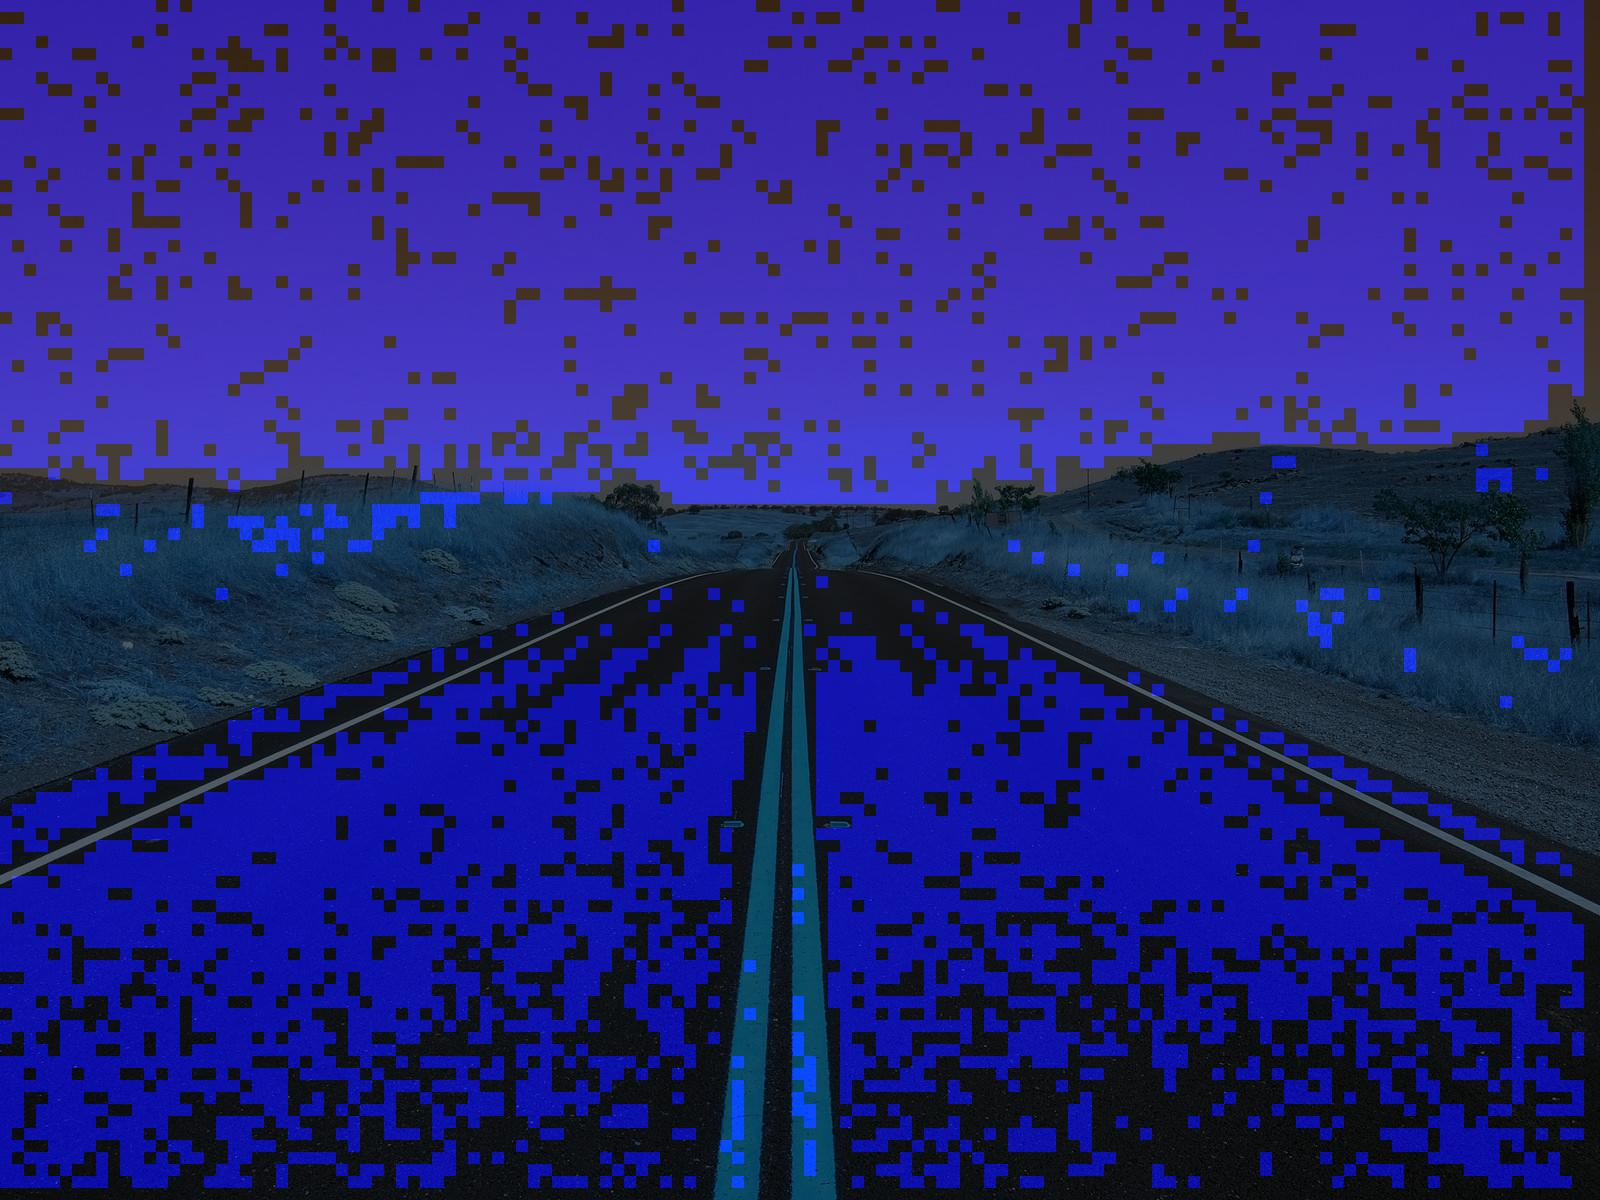
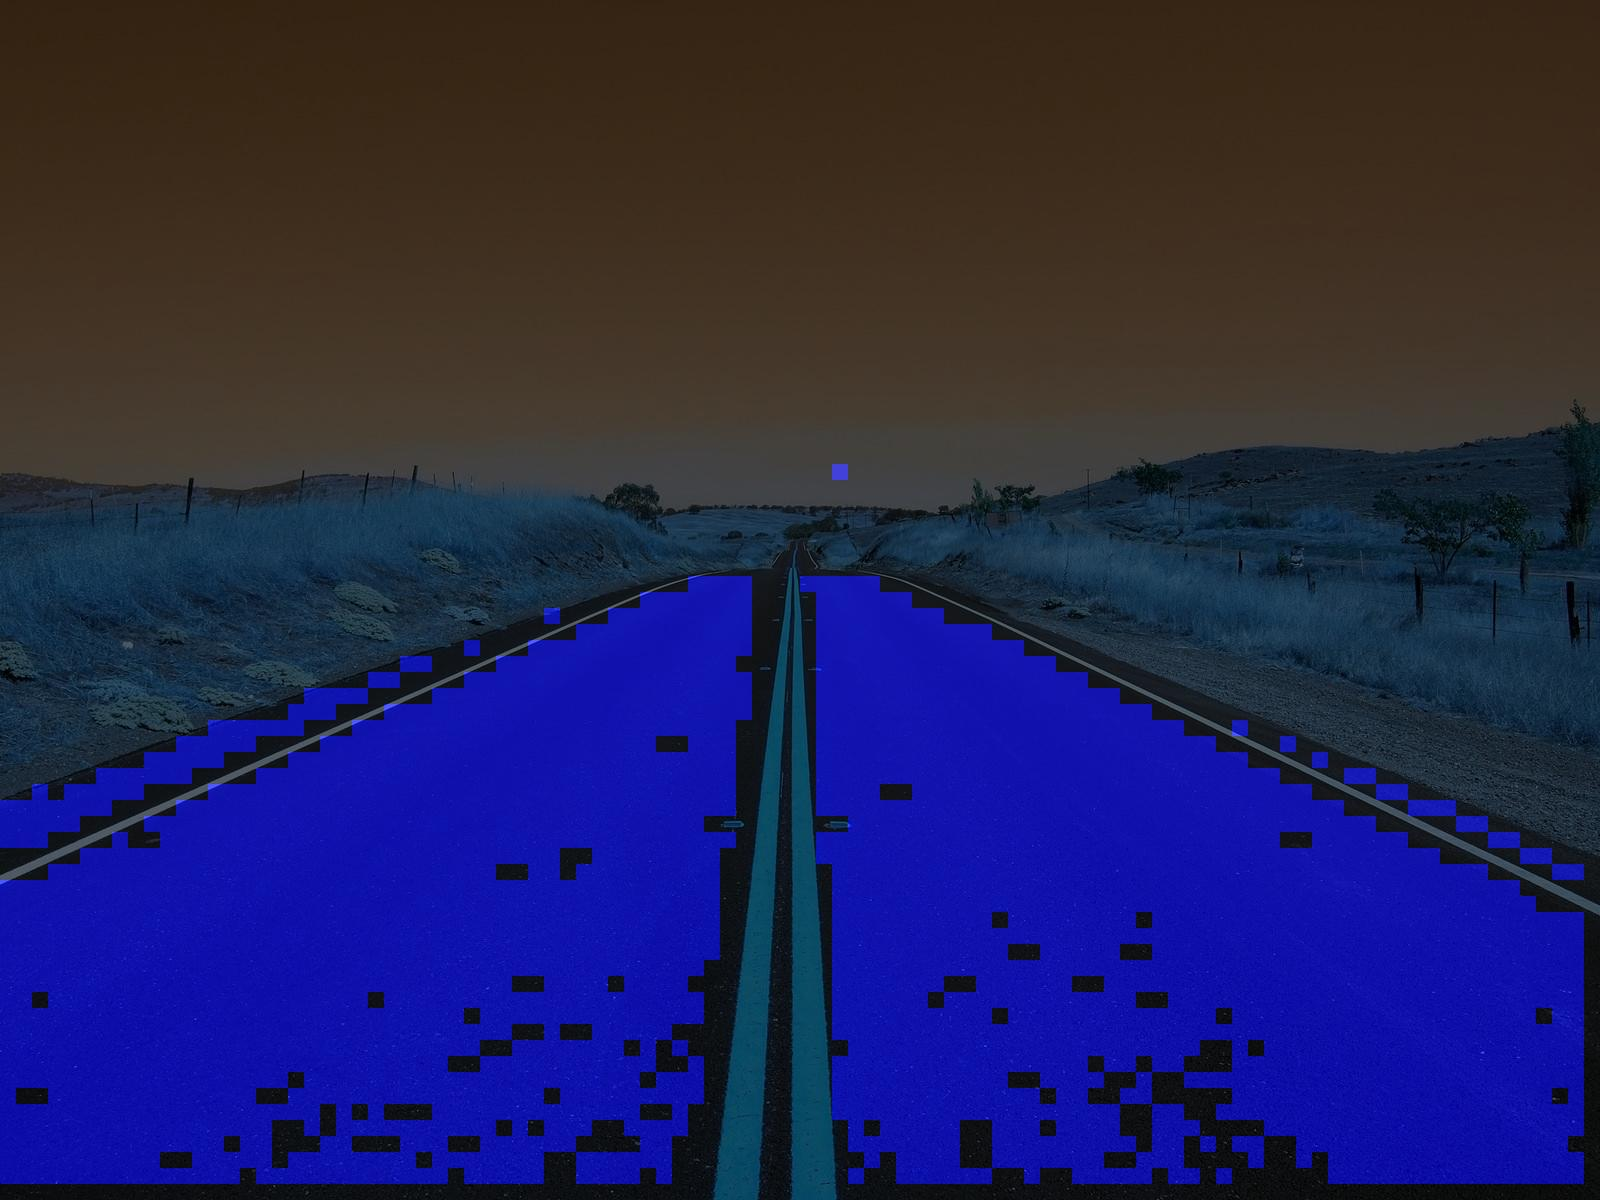
馬路分割

diff --git a/HW3/embedded_system/main.py b/HW3/embedded_system/main.py
@@ -5,22 +5,27 @@ import search
 import histogram
 import one_norm_dist
 import label
+import hsv
 import numpy as np
 from PIL import Image
 
 def main():
-    patch_size = 12
+    patch_size = 16
     # 讀取影像
     image      = cv2.imread('picture/road.jpg')
-    image_gray = cv2.imread('picture/road.jpg',0)
+    #hsv
+    lower = np.array([0, 0, 0])   # HSV的下限
+    upper = np.array([180, 200, 100])  # HSV的上限 
+    image_hsv  = hsv.hsv(image,lower,upper)
+
+    image_gray = cv2.imread('picture/hsv.jpg',0)
+
+    
 
     #sobel
-    img_sobel = sobel.apply_sobel(image)
+    img_sobel = sobel.apply_sobel(image_hsv)
     #lbp
     img_lbp   = lbp_notcv2.main()
-
-    # 將影像分割成小區塊
-    patches   = search.split_image_into_patches(image_gray, patch_size)
 
     #histogram
     mask = np.zeros_like(image_gray)
@@ -30,13 +35,13 @@ def main():
     th        = int(sum(top3)/3)
     print(th)
 
-    rows, cols = image_gray.shape
+    rows, cols = img_lbp.shape
     for i in range(0, rows, patch_size):
         for j in range(0, cols, patch_size):
-            patch1 = image_gray[i:i+patch_size, j:j+patch_size]
+            patch1 = img_lbp[i:i+patch_size, j:j+patch_size]
             if i+patch_size < rows and j+patch_size < cols:
                 # 與右邊的區塊進行比較
-                patch2 = image_gray[i:i+patch_size, j+patch_size:j+2*patch_size]
+                patch2 = img_lbp[i:i+patch_size, j+patch_size:j+2*patch_size]
                 hist1 = histogram.calculate_histogram(patch1)
                 hist2 = histogram.calculate_histogram(patch2)               
                 if one_norm_dist.calculate_1_norm_distance(hist1, hist2,th) == 1:

diff --git a/HW3/embedded_system/hsv.py b/HW3/embedded_system/hsv.py
@@ -1,0 +1,22 @@
+import cv2
+import numpy as np
+
+
+def hsv(image, lower, upper):
+
+    # 讀取影像
+    if image is None:
+        raise ValueError(f"Error: unable to load image '{image}'")
+
+    # 將影像轉換為 HSV 色彩空間
+    hsv_image = cv2.cvtColor(image, cv2.COLOR_BGR2HSV)
+    # 建立遮罩，將範圍內的深色設為白色(255)，其他顏色為黑色(0)
+    mask = cv2.inRange(hsv_image, lower, upper)
+    
+    # 反轉遮罩，讓非深色部分為白色(255)，深色部分為黑色(0)
+    non_mask = cv2.bitwise_not(mask)
+
+    # 將遮罩應用到原始影像，僅保留非天空的部分
+    filtered_image = cv2.bitwise_and(image, image, mask=non_mask)
+
+    return filtered_image
